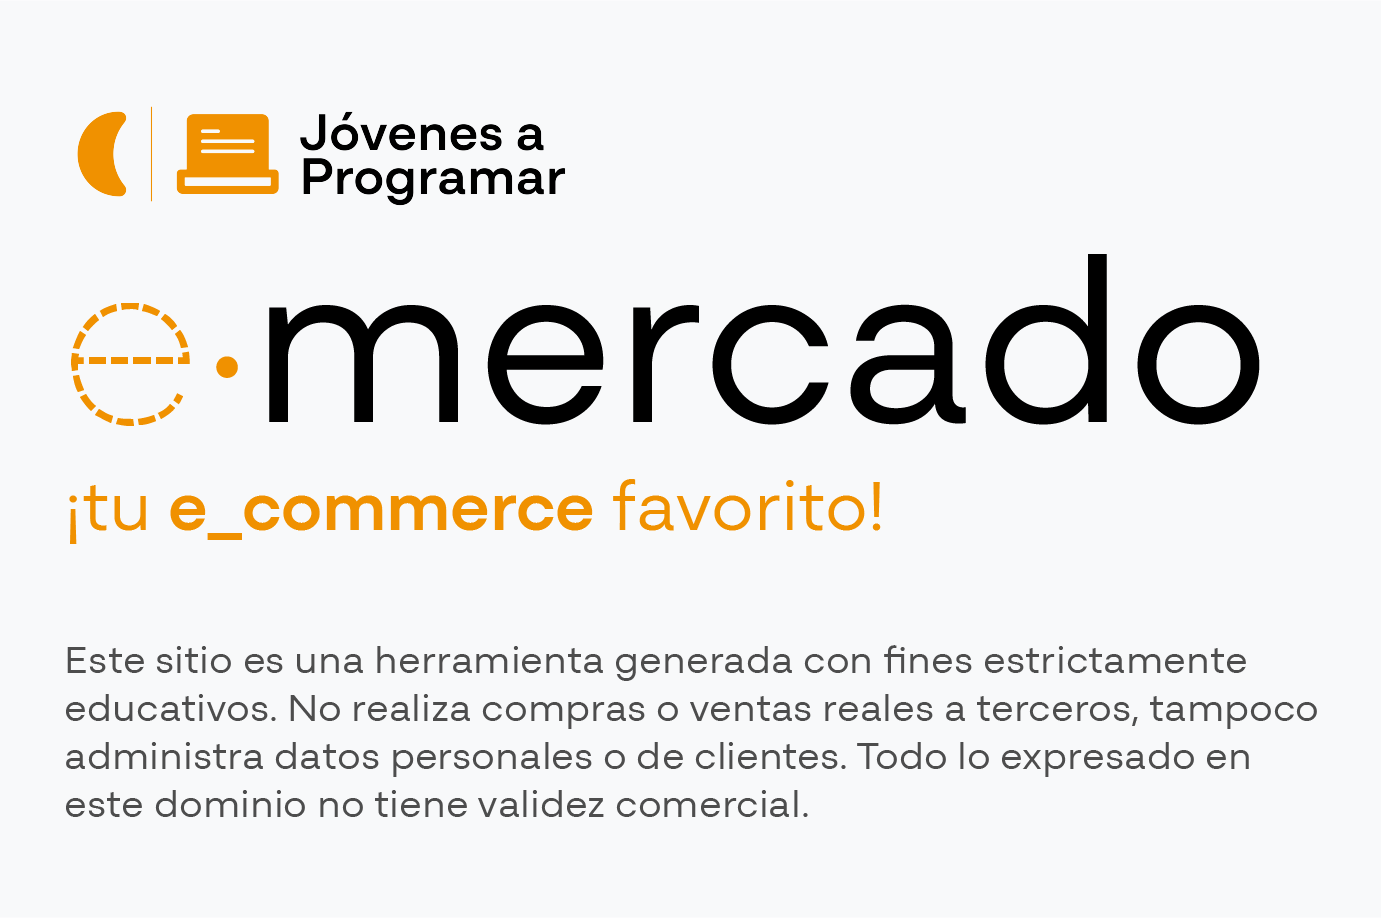
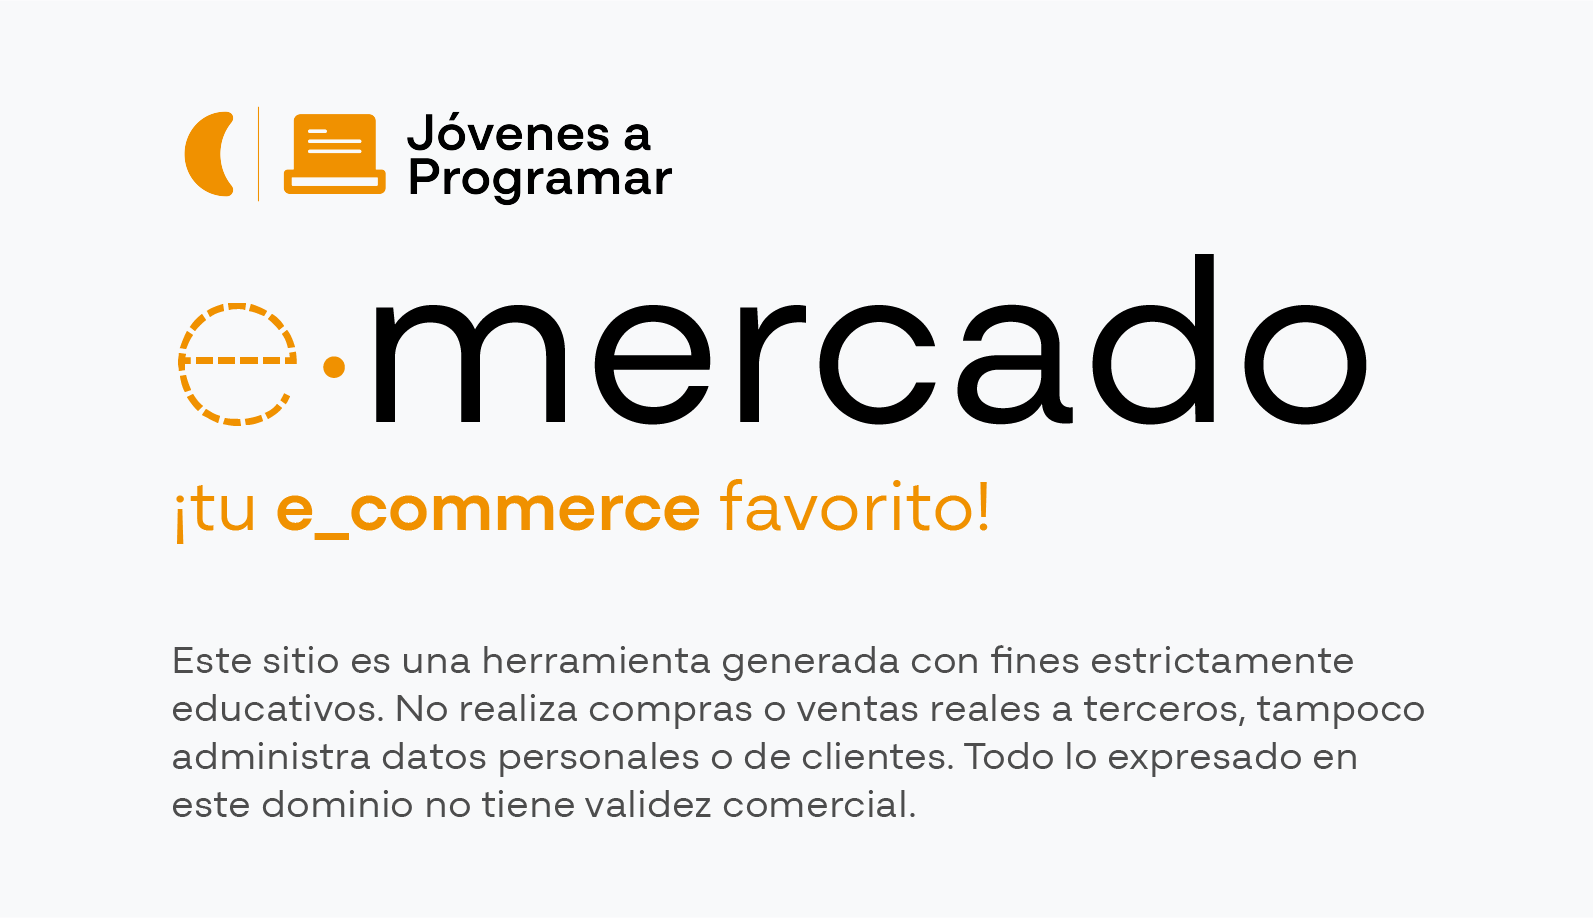
Listoooooooooooooooooooooo

diff --git a/css/styles.css b/css/styles.css
@@ -34,32 +34,27 @@ nav a {
   margin-bottom: 0;
   background-color: #53C0FB;
   background: url('../img/cover_back.png');
-  background-size: cover;
+  background-size: contain;
   background-position: center;
   background-repeat: no-repeat;
   color: black;
   font-weight: bold;
 }
-.jumbotron .desktop {
-  background: url('../img/cover_back.png');
-  background-size: cover;
-  background-position: center;
-  background-repeat: no-repeat;
-}
 
-.jumbotron .mobile {
-  background: url('../img/cover_back_mobile.png');
-  background-size: cover;
-  background-position: center;
-  background-repeat: no-repeat;
-  display: none;
-}
 
-@media (max-width: 767.98px) {
-  .jumbotron .desktop {
-    display: none;
+@media (max-width: 768px) {
+  .jumbotron  {
+    background: url('../img/cover_back.png');
+   background-size: contain;
+   background-position: center;
+   background-repeat: no-repeat;
+   display: none;
   }
-  .jumbotron .mobile {
+  .jumbotron {
+    background: url('../img/cover_back_mobile.png');
+    background-size: contain;
+    background-position: center;
+    background-repeat: no-repeat;
     display: block;
   }
 }
